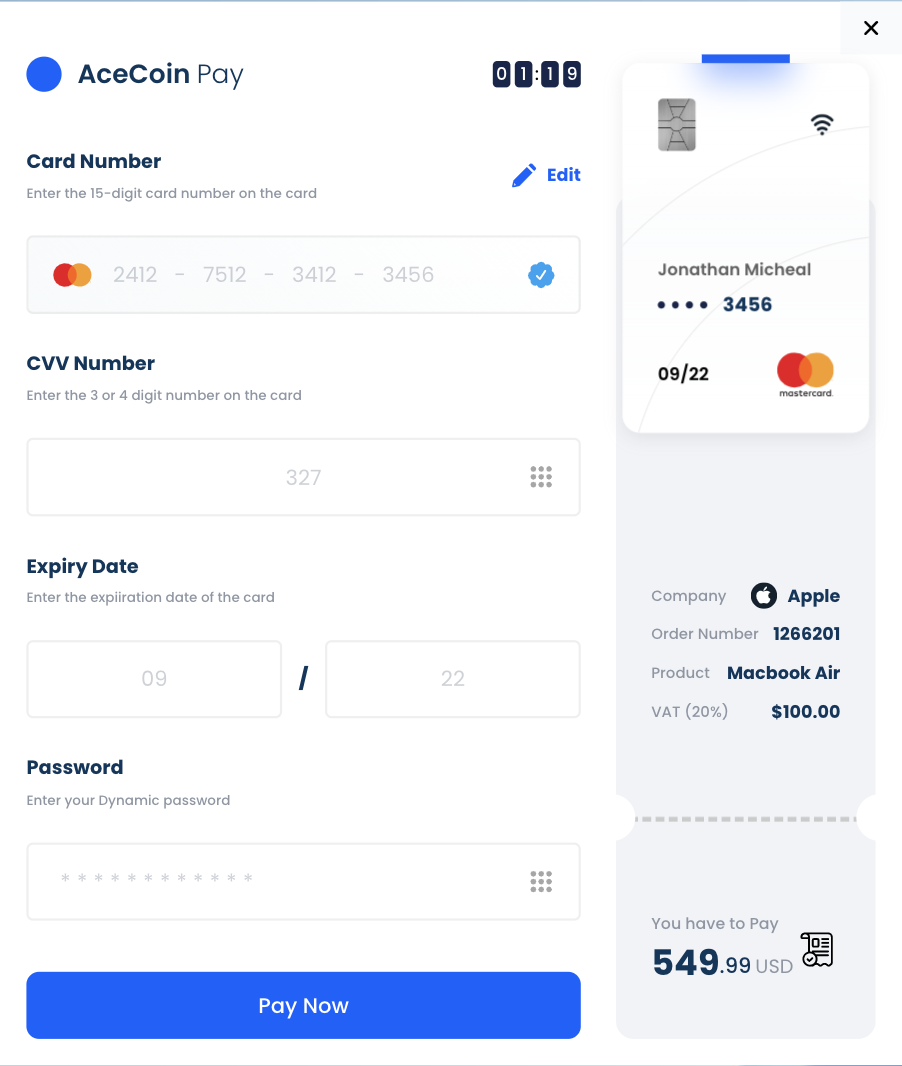
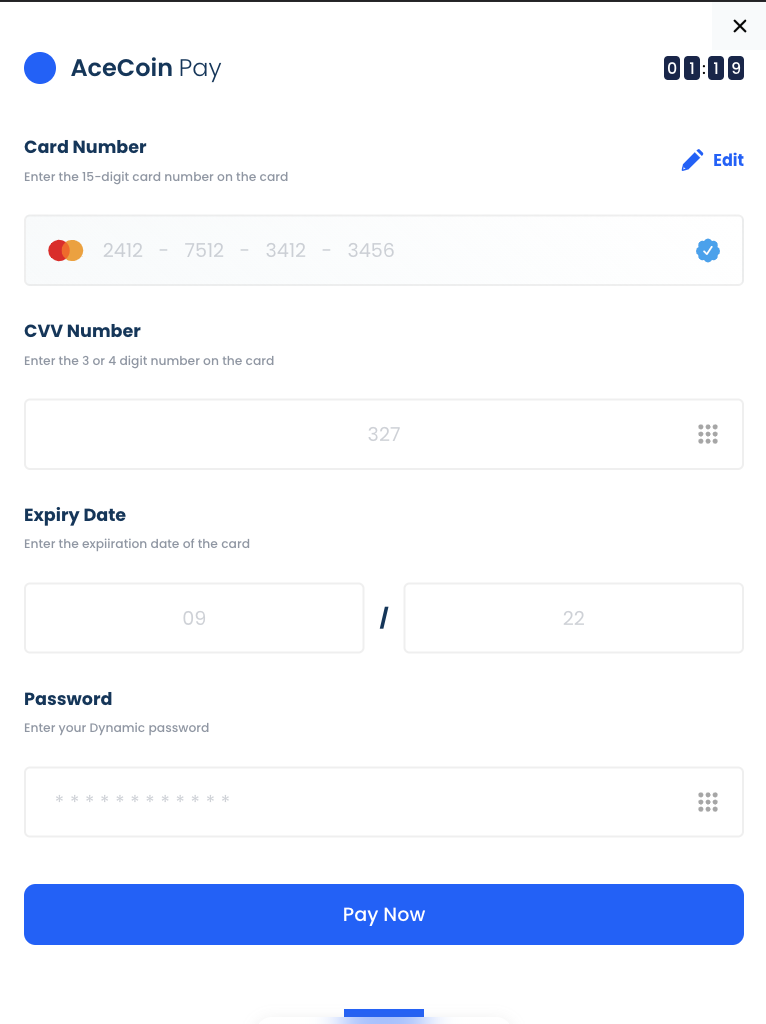
update: tablet view style adjusted

diff --git a/src/styles/_form.scss b/src/styles/_form.scss
@@ -53,7 +53,7 @@
 					input {
 						border: 2px solid $input-border;
 						width: 100%;
-						padding: 1em 4em 1em 4em;
+						padding: 0.8em 4em 0.8em 4em;
 						font-size: 1.2em;
 						font-weight: 600;
 						border-radius: 6px;
@@ -77,7 +77,7 @@
 							display: block;
 							margin: 0 0.8em;
 							font-size: 1.2em;
-							font-weight: 800;
+							font-weight: 600;
 							color: $text_one;
 						}
 					}
@@ -108,11 +108,19 @@
 					}
 				}
 				@media (min-width: 1024px) {
+					.main {
+						input {
+							padding: 1em 4em 1em 4em;
+						}
+					}
 					&.__col {
 						align-items: center;
 						flex-direction: row;
 						.grp {
 							width: 400px;
+							.divider {
+								font-size: 800;
+							}
 						}
 						.main {
 							max-width: 400px;

diff --git a/src/styles/_checkoutDetails.scss b/src/styles/_checkoutDetails.scss
@@ -1,8 +1,22 @@
 .checkout {
 	position: relative;
+
+	.blu {
+		display: block;
+		height: 1.5em;
+		width: 5em;
+		background-color: $blue_bg;
+		position: absolute;
+		top: 0em;
+		left: 50%;
+		transform: translate(-50%, 0);
+	}
 	.checkout-details {
 		background-color: #f0f3f8;
 		width: 100%;
+		max-width: 400px;
+		margin: 0 auto;
+		position: relative;
 		border-radius: 1em;
 		.purchase-data {
 			.data {
@@ -95,14 +109,14 @@
 		@media (min-width: 640px) {
 			.divider {
 				&::before {
-					bottom: 202px;
+					bottom: 182px;
 				}
 			}
 		}
 		@media (min-width: 1024px) {
 			.divider {
 				&::before {
-					bottom: 144px;
+					bottom: 99px;
 				}
 			}
 		}

diff --git a/src/App.tsx b/src/App.tsx
@@ -7,18 +7,18 @@ import Close from './assets/icons/Close';
 
 function App() {
 	return (
-		<div className='container grid md:grid-cols-12 gap-y-16 md:gap-8'>
+		<div className='container grid lg:grid-cols-12 gap-y-16 lg:gap-8'>
 			<button className='close-btn'>
 				<Close />
 			</button>
 
-			<div className='col-span-12 md:col-span-8'>
+			<div className='col-span-12 lg:col-span-8'>
 				<div className='form'>
 					<Header />
 					<Form />
 				</div>
 			</div>
-			<div className='col-span-12 md:col-span-4'>
+			<div className='col-span-12 lg:col-span-4'>
 				<Checkout />
 			</div>
 		</div>

diff --git a/src/styles/_creditcard.scss b/src/styles/_creditcard.scss
@@ -1,14 +1,4 @@
 .checkout-details {
-	.blu {
-		display: block;
-		height: 1.5em;
-		width: 5em;
-		background-color: $blue_bg;
-		position: absolute;
-		top: 0em;
-		left: 50%;
-		transform: translate(-50%, 0);
-	}
 	.credit-card {
 		width: 16em;
 		height: 23.4em;
@@ -100,14 +90,9 @@
 			}
 		}
 		@media (min-width: 640px) {
-			width: 14em;
-			height: 21em;
 			&__head {
 				margin-bottom: 6em;
 			}
-		}
-		@media (min-width: 1024px) {
-			width: 16em;
 		}
 	}
 }

diff --git a/src/component/checkout/CheckoutDetails.tsx b/src/component/checkout/CheckoutDetails.tsx
@@ -21,7 +21,7 @@ const CheckoutDetails = () => {
 				<div className='left'></div>
 				<div className='right'></div>
 			</div>
-			<div className='purchase-total pb-6 md:pb-0 pt-6 md:pt-20 lg:pt-6 px-8'>
+			<div className='purchase-total pb-6 md:pb-10 lg:pb-0 pt-6 md:pt-20 lg:pt-6 px-8'>
 				<div className='total'>
 					<span className='desc'>You have to Pay</span>
 					<div className='t-amount'>

diff --git a/src/component/checkout/CreditCard.tsx b/src/component/checkout/CreditCard.tsx
@@ -3,7 +3,6 @@ import React from 'react';
 const CreditCard = () => {
 	return (
 		<div>
-			<span className='blu'></span>
 			<div className='credit-card'>
 				<div className='credit-card__head'>
 					<img src='/images/chip.png' alt='' className='chip' />

diff --git a/src/component/checkout/index.tsx b/src/component/checkout/index.tsx
@@ -4,6 +4,7 @@ import CheckoutDetails from './CheckoutDetails';
 const Checkout = () => {
 	return (
 		<div className='checkout pt-32 h-full'>
+			<span className='blu'></span>
 			<CheckoutDetails />
 		</div>
 	);

diff --git a/src/styles/index.scss b/src/styles/index.scss
@@ -41,9 +41,6 @@ body {
 			height: 1.5em;
 		}
 	}
-	@media (min-width: 640px) {
-		margin-top: 6em;
-	}
 	@media (min-width: 1024px) {
 		padding: 3em;
 		padding-top: 5em;
